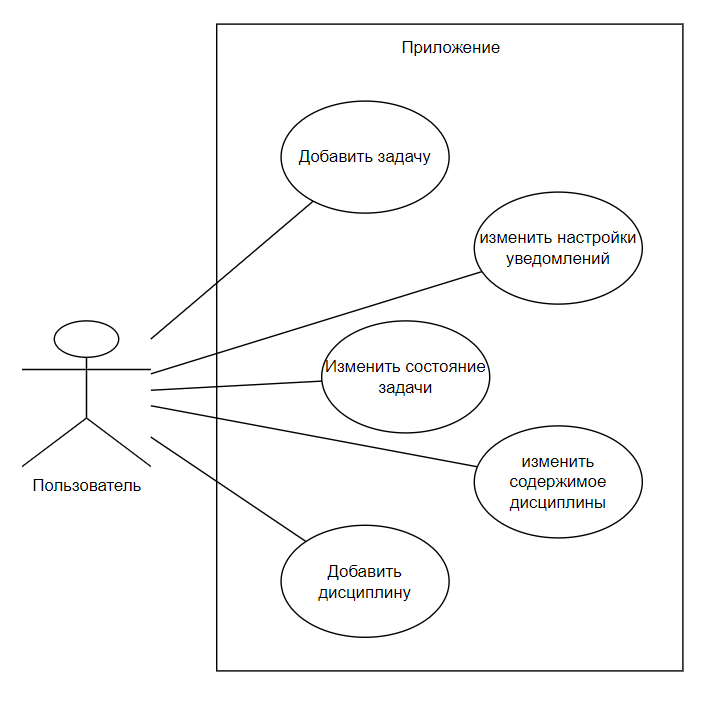
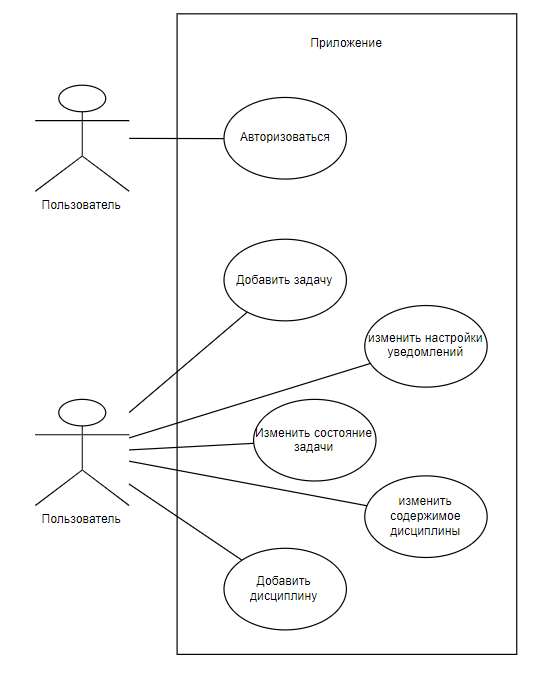
лаба защищена

diff --git a/lab_01/readme.md b/lab_01/readme.md
@@ -10,7 +10,7 @@
 
 ## b. Краткий перечень функциональных требований
 
-Пользователь будет иметь возможность указывать сроки, прогресс выполнения и новые курсы, по которым необходимо вести учёт.
+Пользователь, после авторизации, будет иметь возможность указывать сроки, прогресс выполнения и новые курсы, по которым необходимо вести учёт.
 
 ## c. Use-case диаграмма системы
 
@@ -22,8 +22,9 @@
 
 ## e. Примеры описания основных пользовательских сценариев
 
-Пользователь после запуска приложения может:
+Пользователь после прихода на сайт может:
 
+- авторизоваться
 - добавить задачу
 - изменить настройки уведомлений
 - изменить состояние задачи
